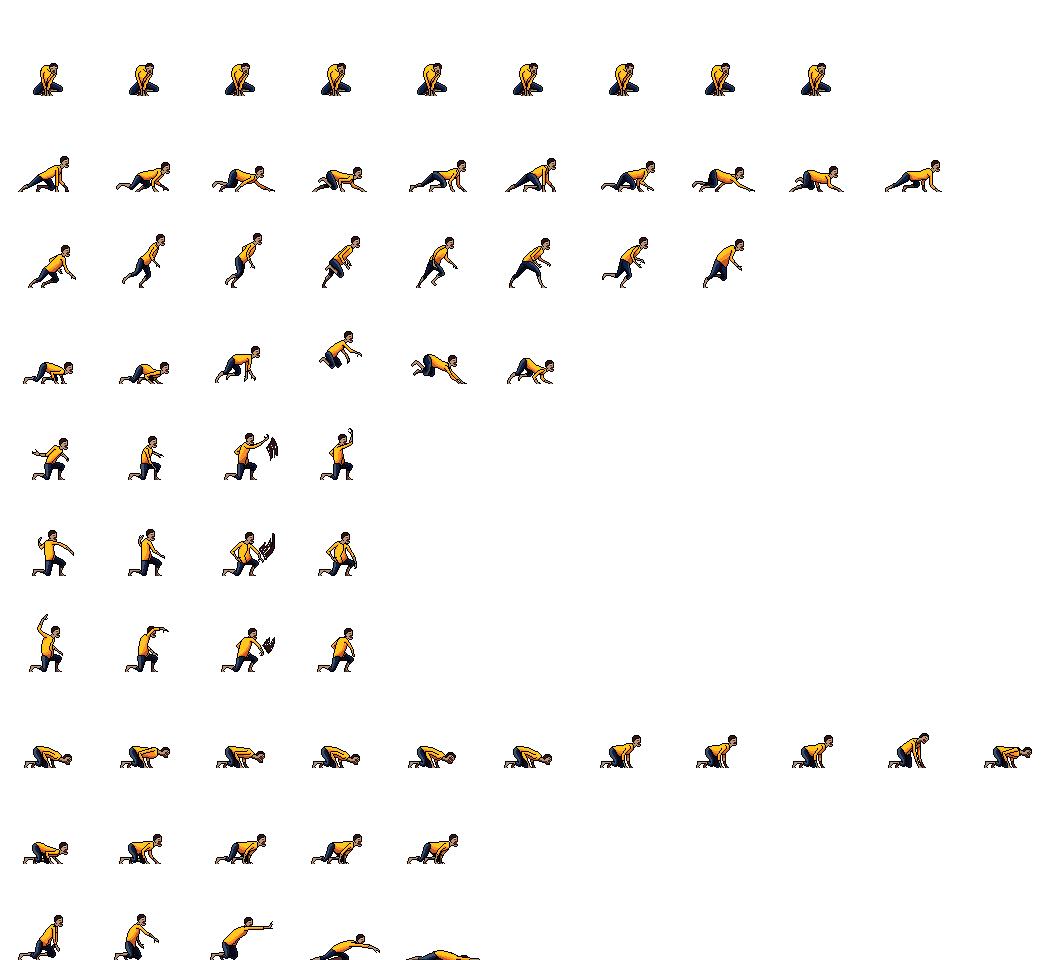
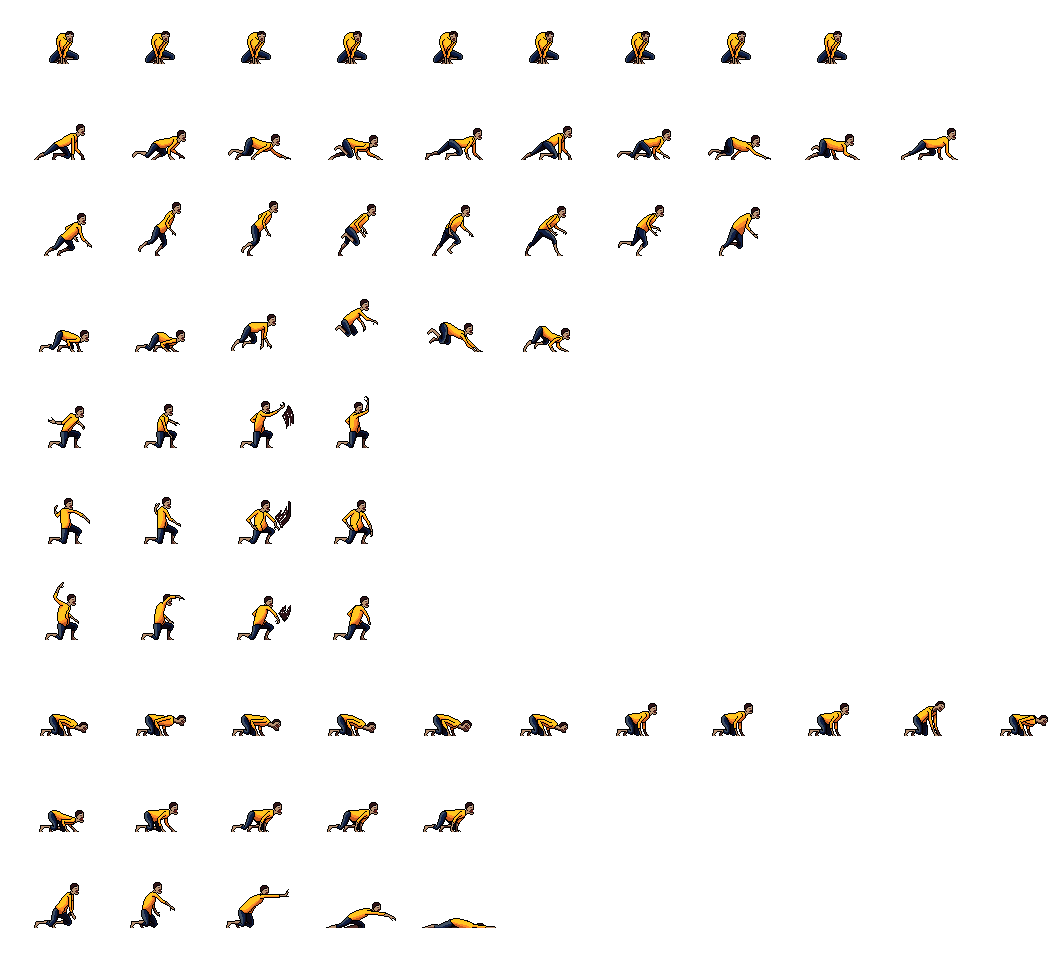
fix: zombie assets and refactor some code
Commit by Caknoooo

diff --git a/src/main/Game.java b/src/main/Game.java
@@ -8,6 +8,7 @@ public class Game implements Runnable {
 	private GamePanel gamePanel;
 	private Thread gameThread;
 	private GameStateManager gsm;
+	private boolean running;
 
 	public Game() {
 		this.gamePanel = new GamePanel(Constants.Panel.WIDTH, Constants.Panel.HEIGHT);
@@ -20,7 +21,7 @@ public class Game implements Runnable {
 	@Override
 	public void run() {
 		init();
-		while (true) {
+		while (running) {
 			gamePanel.repaint();
 
 			try {
@@ -32,6 +33,8 @@ public class Game implements Runnable {
 	}
 
 	public void init() {
+		running = true;
+		
 		gsm = new GameStateManager();
 	}
 }

diff --git a/src/gamestates/MainMenuState.java b/src/gamestates/MainMenuState.java
@@ -2,16 +2,28 @@ package gamestates;
 
 import java.awt.Graphics2D;
 
+import tilemap.Background;
+import utils.Constants;
+
 public class MainMenuState extends GameState {
+	private Background bg;
 
 	public MainMenuState(GameStateManager gsm) {
 		this.gsm = gsm;
+		
+		try {
+			bg = new Background(Constants.Backgrounds.MAIN_MENU);
+		}
+		catch(Exception e) {
+			e.printStackTrace();
+		}
+		
+		init();
 	}
 
 	@Override
 	public void init() {
-		// TODO Auto-generated method stub
-
+		
 	}
 
 	@Override
